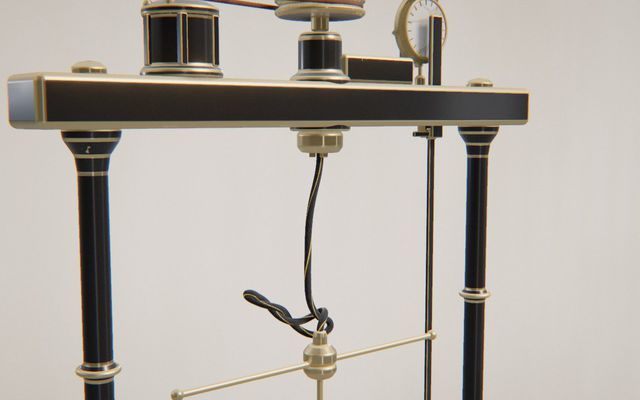
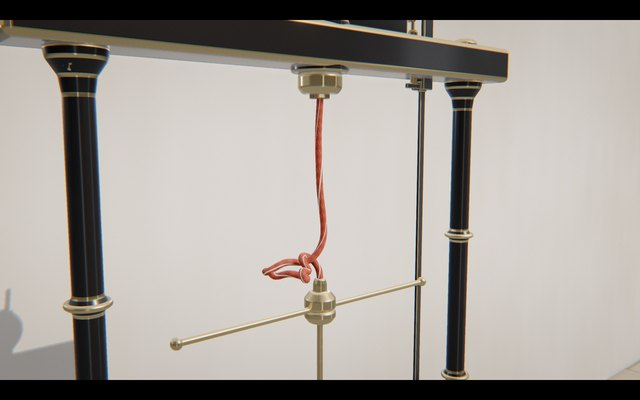
Tangle : la corde est toujours vermillon (le fil rouge, lustre teinté par la fibre) et filmée en plan serré — le cadre descend sous la traverse et suit le désordre de la corde

diff --git a/tangle/src/recipe.js b/tangle/src/recipe.js
@@ -39,7 +39,13 @@ export const CORDS = {
   vertCuivre: ['#2d5a45', '#1d3c2e', '#d9874a', 'Coton vert, rayure cuivre'],
   orangeNoir: ['#d0581c', '#a8420f', '#141212', 'Orange de sécurité, rayure noire'],
   blancNoir: ['#ece9e2', '#d4d0c6', '#121212', 'Coton blanc, rayure noire'],
+  // le fil rouge de la collection : la corde principale est toujours vermillon
+  // (albédo plus sombre et plus orangé que le #d8401f de la collection : le lustre de la
+  // gaine tressée l'éclaircit et le désature vers le rose)
+  vermillonNoir: ['#c4370c', '#962808', '#141212', 'Vermillon, rayure noire'],
+  vermillonIvoire: ['#c4370c', '#9a2a09', '#efe8da', 'Vermillon, rayure ivoire'],
 };
+export const FIL_ROUGE = ['vermillonNoir', 'vermillonIvoire'];
 
 // ── Humeurs : chacune un décor (fond, sol, accessoires), une lumière, une
 // valeur, un cadrage ─────────────────────────────────────────────────────────
@@ -162,8 +168,10 @@ export function generate(seed, overrides = {}) {
   const A = ra.pick(M.accords);
   const family = overrides.family ?? rf.pick(Object.keys(CATALOGUE));
   const fam = CATALOGUE[family];
-  const cordKey = ra.pick(M.cords);
-  const cord2Key = ra.pick(M.cords.filter((k) => k !== cordKey));
+  // (la corde qui se tord est vermillon ; le second brin de la paire prend
+  // une couleur du décor, qui fait lire le commettage)
+  const cordKey = ra.pick(FIL_ROUGE);
+  const cord2Key = ra.pick(M.cords.filter((k) => !/rouge|Rouge|orange|cramoisi/i.test(k)).concat(M.cords.length ? [] : ['blancNoir']));
   const rate = r2(rm.range(0.85, 1.15));
   const cycles = fam.cycles.map((K, i) => ({ K, rate: r2(rate * (i === 0 ? 1.1 : 1)), settle: fam.settle[i] }));
 
@@ -183,7 +191,7 @@ export function generate(seed, overrides = {}) {
     },
     camera: {
       fov: r2(rc.range(...M.cam.fov)), dist: r2(rc.range(...M.cam.dist)), height: r2(rc.range(...M.cam.h)),
-      side: r2(rc.range(0.35, 0.75) * rc.pick([1, -1])), sway: r2(rc.range(0.15, 0.3)),
+      side: r2(rc.range(0.35, 0.75) * rc.pick([1, -1])), sway: r2(rc.range(0.15, 0.3)), close: r2(rc.range(0.75, 1)),
     },
     light: {
       key,

diff --git a/tangle/src/camera.js b/tangle/src/camera.js
@@ -48,10 +48,16 @@ export function cameraPath(S, R, { S: scale, Y0 }) {
   const C = R.camera;
   const frames = new Float64Array(nf * 7);
   const tanH = Math.tan((C.fov * Math.PI) / 360);
+  // close (0..1) : le plan serré — la corde remplit l'image, le haut du
+  // moteur et le bas du balancier sortent du cadre (on garde le mandrin qui
+  // tourne, la cause) ; le centre suit davantage le désordre (règle 23 de la
+  // skill : le sujet, pas l'appareil). 0 : le banc entier (recettes anciennes).
+  const k = C.close ?? 0;
   for (let f = 0; f < nf; f++) {
     const u = f / nf;
-    const span = Math.max(2.4, top - fs[f]);
-    const centre = (top + fs[f]) / 2 * 0.75 + (Y0 + ys[f] * scale) * 0.25;
+    const topK = top - k * 0.2 * scale, botK = fs[f] + k * 0.1 * scale;
+    const span = Math.max(2.4 - k * 0.75, topK - botK);
+    const centre = (topK + botK) / 2 * (0.75 - 0.3 * k) + (Y0 + ys[f] * scale) * (0.25 + 0.3 * k);
     const dist = (span / 2 / tanH) * 1.12 * C.dist;
     const az = C.side + C.sway * Math.sin(TAU * u) * 0.5; // (un balancement par boucle)
     const el = 0.05 + C.height * 0.35 + 0.03 * Math.sin(TAU * u + 1.3);

diff --git a/tangle/src/scene/cord.js b/tangle/src/scene/cord.js
@@ -127,7 +127,9 @@ export function createCord(root) {
     m.colorNode = vec4(col, 1);
     m.roughnessNode = float(0.72).sub(H.mul(0.1));
     m.metalnessNode = float(0);
-    m.sheenNode = mix(base, vec3(1), 0.5).mul(U.sheen);
+    // (lustre teinté par la fibre : à 50 % de blanc, une corde vermillon
+    // virait au rose corail)
+    m.sheenNode = mix(base, vec3(1), 0.18).mul(U.sheen);
     m.sheenRoughnessNode = float(0.45);
     // relief de la tresse (hauteur en unités du monde : ~0,5 mm de bosse)
     const N0 = normalViewGeometry.mul(faceDirection);

diff --git a/tangle/README.md b/tangle/README.md
@@ -6,7 +6,7 @@ Un banc d'essai de torsion, pièce d'instrument de cabinet de physique : socle s
 
 Le moteur tourne, et la rayure tissée dans la gaine de la corde s'enroule en hélice. La corde reste droite. Au seuil, elle cède d'un coup sur le côté en une boucle qui s'enroule sur elle-même en torsade, et remonte le balancier. Quand le mandrin a fait son compte, une came de la roue-programme abaisse le poussoir, qui écarte la glissière. Libéré, le balancier tourne, la torsade se défait, il redescend, oscille et se pose. La glissière revient quand le moteur repart. Trois cycles en crescendo : la rayure seule, une boucle, la torsade.
 
-![Le cordon en torsade, Muybridge](docs/capture.jpg)
+![Le cordon vermillon en torsade sous le mandrin, plan serré (Midi, graine b5)](docs/capture.jpg)
 
 Rendu physique en three.js (WebGPU, TSL). La scène est entièrement procédurale : une graine produit une scène. La démarche est dans [docs/concept.md](docs/concept.md) : le thème « tangle » exploré sous six angles, les clichés écartés (la pelote et le chat, les écouteurs emmêlés, le nœud qui se fait seul, les spaghettis), dix pistes notées, puis les épreuves (crédibilité, variété, ambition, déclinaison, scénario).
 
@@ -27,7 +27,7 @@ Paramètres d'URL : `?seed=…` (une scène), `#r=…` (une scène retouchée, p
 Le panneau règle :
 - **Scène** : humeur, famille, durée (fixée par la simulation) ; pour chaque cycle, les tours du mandrin, la vitesse du moteur et le temps de retour au repos ; l'amortisseur du balancier ; le pli naturel de la corde (qui choisit où naît la boucle) ;
 - **Caméra** : champ, distance, hauteur du regard, côté, balancement, caméra libre ;
-- **Corde et matières** : gaine et rayure (huit palettes), second brin de la paire, lustre, une ou deux rayures ; bâti, métal, balancier, accent, cadran, courroie (jeu de matériaux, couleur et curseurs du modèle physique) ;
+- **Corde et matières** : gaine et rayure (dix palettes ; la corde qui se tord est toujours vermillon, le fil rouge de la collection), second brin de la paire, lustre, une ou deux rayures ; bâti, métal, balancier, accent, cadran, courroie (jeu de matériaux, couleur et curseurs du modèle physique) ;
 - **Lumière et fond** : lampe ou soleil, lumière du lieu, contre-jours, studio HDR, brume ;
 - **Rendu**.
 
@@ -98,6 +98,8 @@ Un ruban et un fil d'acier ont été essayés et écartés : le ruban se travers
 Lampes presque blanches (≥ 4 700 K), sauf la lampe de bureau du Cabinet (4 300 K). Le décor ne reçoit que la lampe et la lumière du lieu, pour que les contre-jours n'effacent pas les ombres.
 
 **La caméra** est une grue lente qui encadre la partie active de la machine, du moteur au balancier. Elle est centrée en partie sur le désordre de la corde (les sommets pondérés par leur écart à l'axe), se rapproche quand le balancier remonte et se balance d'un seul mouvement par boucle. Sa trajectoire est échantillonnée à 30 images par seconde de film et lissée par un noyau gaussien périodique (σ = 1,2 s). Elle pointe sous 25°/s (testé à 120 i/s).
+
+**Le plan serré** (`camera.close`, 0,75 à 1) : la corde est le sujet, pas le banc. Le cadre descend sous la traverse du moteur (on garde le mandrin qui tourne, la cause) et remonte au-dessus du bas du balancier ; son centre suit davantage le désordre de la corde (0,25 + 0,3 × close au lieu de 0,25). Une recette ancienne, sans `close`, garde le plan du banc entier. La corde principale est vermillon (deux tons, rayure noire ou ivoire, albédo #c4370c, plus orangé, que le lustre de la gaine éclaircit et désature vers le vermillon de la collection) ; le second brin de la paire prend une couleur du décor.
 
 ## Tests
 

diff --git a/README.md b/README.md
@@ -138,7 +138,7 @@ La reviviscence. Une année de mousse sur sa pierre, en accéléré. À la séch
 
 ## [Tangle](tangle/)
 
-Le tour de trop. Un banc d’essai de torsion, pièce de cabinet de physique. Un moteur tourne le mandrin et la corde qui pend dessous se tord : sa rayure s’enroule en hélice. Au seuil de Greenhill, elle flambe d’un coup en une boucle qui s’enroule sur elle-même en torsade (un plectonème) et remonte le balancier. La came du compte-tours écarte alors la barre. Le balancier, libéré, tourne, la torsade se déroule et la corde revient droite. Trois cycles en crescendo (la rayure seule, une boucle, la torsade), trois familles (le cordon qui se tord en torsade, la paire dont les brins se commettent en hélice, la spirale peu tendue qui se love d’un bout à l’autre). La simulation : tiges de Cosserat intégrées par XPBD à petits pas ; contacts ; enlacement conservé (Lk = Tw + Wr, vérifié par des tests) ; came calculée d’après le plan ; sept décors ; scènes procédurales à partir d’une graine ; boucle parfaite exportable en MP4.
+Le tour de trop. Un banc d’essai de torsion, pièce de cabinet de physique. Un moteur tourne le mandrin et la corde qui pend dessous se tord : sa rayure s’enroule en hélice. Au seuil de Greenhill, elle flambe d’un coup en une boucle qui s’enroule sur elle-même en torsade (un plectonème) et remonte le balancier. La came du compte-tours écarte alors la barre. Le balancier, libéré, tourne, la torsade se déroule et la corde revient droite. Trois cycles en crescendo (la rayure seule, une boucle, la torsade), trois familles (le cordon qui se tord en torsade, la paire dont les brins se commettent en hélice, la spirale peu tendue qui se love d’un bout à l’autre), une corde toujours vermillon filmée en plan serré. La simulation : tiges de Cosserat intégrées par XPBD à petits pas ; contacts ; enlacement conservé (Lk = Tw + Wr, vérifié par des tests) ; came calculée d’après le plan ; sept décors ; scènes procédurales à partir d’une graine ; boucle parfaite exportable en MP4.
 
 [Démo en ligne](https://drschizzo.github.io/Codevember/tangle/) · [version légère](https://drschizzo.github.io/Codevember/tangle/?mobile=1) · [documentation](tangle/README.md) · [concept](tangle/docs/concept.md)
 
